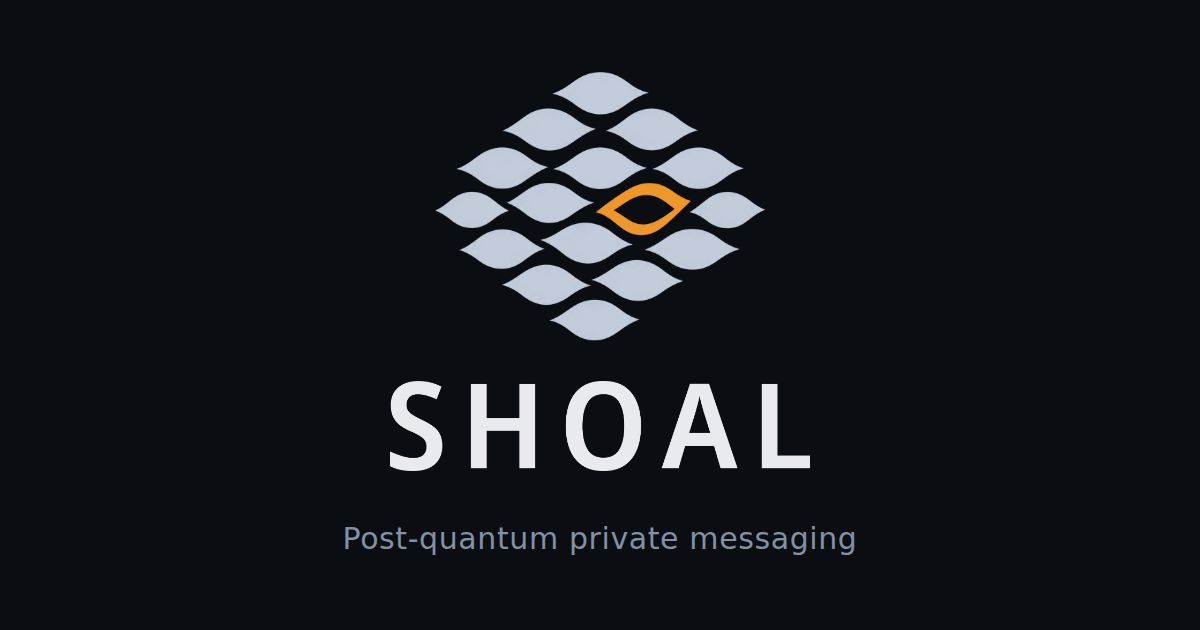
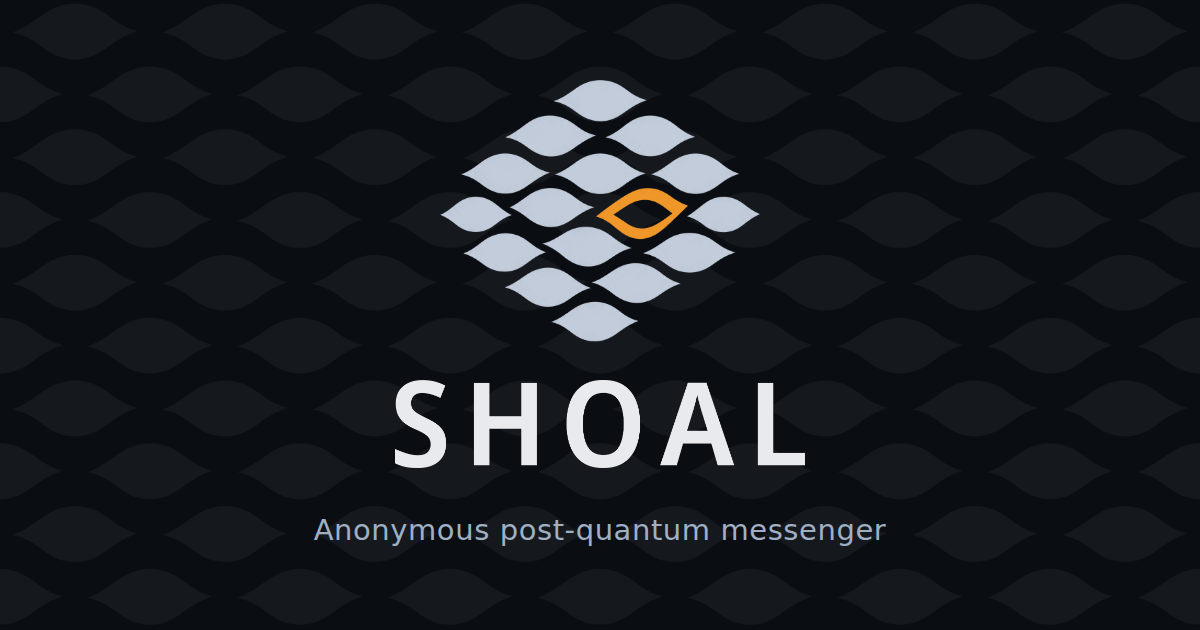
Put the site and the README on the Shoal design code
The rename reached the words but not the design: the palette still carried
Aegis's teal, and the README's banner was a rendered graphic with AEGIS set
across it. That image was the last place the old name was still visible,
and no text search could find it.

The banner is replaced by the supplied key visual, which is lighter than the
465 KB screenshot it removes was.

Palette. Teal is gone. The brand is a steel shoal with one amber fish, so
the palette follows that split: silver is "the many" -- body copy, code,
anything technical -- and amber is "the one", marking exactly one thing per
view. The hero's five rings used to alternate amber and teal, which read as
five different things; they are five hops of the same kind, so they are now
five of the same steel with amber only at the core. The palette rule and the
protocol turn out to be the same picture.

Ground. The hero stands on the mark's own lattice, continued past its
diamond. The tile is built by flood-filling ONE fish out of the mark and
repeating it on a half-drop -- a rectangular crop carries slivers of the
neighbours it interlocks with, and they show up as notches along the tips.
8 KB, seamless, and provably the same shape as the logo, instead of a 1.4 MB
photograph.

Three pillars from the key visual, in both languages, using the brand
glyphs. The parity check that keeps EN and RU the same page covers them, so
they cannot drift apart.

One thing I got wrong on the way and should record: I reported the Russian
[…]

diff --git a/docs/assets/site.css b/docs/assets/site.css
@@ -1,7 +1,11 @@
 /* Shoal site.
  *
- * Palette taken from the brand hero (docs/screenshots/hero.jpg): near-black
- * navy, amber accent, steel text, monospace for anything technical.
+ * Palette taken from the brand key visual: near-black navy ground, a steel
+ * shoal, and amber for the one fish that is not part of it.
+ *
+ * That split is the whole palette rule. Silver is "the many" -- body copy,
+ * code, anything technical -- and amber is "the one", so it marks exactly one
+ * thing per view and nothing else. An accent used twice stops being an accent.
  *
  * No web fonts, no JavaScript, no third-party anything. Partly because it is
  * the fastest a page can be -- Core Web Vitals are a ranking signal and an
@@ -18,7 +22,8 @@
   --muted: #8b98a9;
   --accent: #f0972a;
   --accent-soft: #ffb35c;
-  --teal: #4fd1c5;
+  --steel: #9fb0c4;
+  --steel-dim: #8391a4;
   --mono: ui-monospace, SFMono-Regular, "SF Mono", Menlo, Consolas,
     "Liberation Mono", monospace;
   --sans: -apple-system, BlinkMacSystemFont, "Segoe UI", Roboto, Inter,
@@ -91,10 +96,10 @@ header.site nav a, .head-actions a {
 header.site nav a:hover, .head-actions a:hover { color: var(--text); }
 .head-actions { display: flex; gap: .85rem; align-items: center; }
 .head-actions .lang {
-  color: var(--teal); font-family: var(--mono); font-size: .82rem;
+  color: var(--steel); font-family: var(--mono); font-size: .82rem;
   border: 1px solid var(--line-2); border-radius: 999px; padding: .2rem .7rem;
 }
-.head-actions .lang:hover { border-color: var(--teal); color: var(--teal); }
+.head-actions .lang:hover { border-color: var(--steel); color: var(--steel); }
 
 /* ---------- layout ---------- */
 
@@ -155,7 +160,7 @@ section:last-child { border-bottom: 0; }
 }
 .layer-body h3 { margin: 0 0 .15rem; }
 .layer-tech {
-  font-family: var(--mono); font-size: .84rem; color: var(--teal);
+  font-family: var(--mono); font-size: .84rem; color: var(--steel);
   margin: 0 0 .5rem;
 }
 .layer-body p:last-child { margin: 0; color: var(--muted); font-size: .96rem; }
@@ -178,7 +183,7 @@ thead th {
   text-transform: uppercase; color: var(--muted); font-weight: 600;
 }
 tbody th { font-weight: 500; color: var(--text); }
-tbody td:first-of-type code { color: var(--teal); }
+tbody td:first-of-type code { color: var(--steel); }
 tbody td:last-child { color: var(--muted); font-family: var(--mono); font-size: .86rem; }
 
 /* ---------- grids ---------- */
@@ -215,7 +220,7 @@ pre {
   border-radius: 10px; padding: 1rem 1.15rem; overflow-x: auto;
   margin: 1.8rem 0; font-size: .88rem; line-height: 1.6;
 }
-pre code { color: var(--teal); white-space: pre; }
+pre code { color: var(--steel); white-space: pre; }
 
 /* ---------- faq ---------- */
 
@@ -273,7 +278,46 @@ footer.site {
    Everything here is switched off wholesale under
    prefers-reduced-motion at the bottom of this block. */
 
-.hero { position: relative; }
+.hero { position: relative; isolation: isolate; }
+
+/* The three pillars of the key visual. A glyph, a heading, a sentence -- and
+ * no amber anywhere, because the hero above already spends the one accent this
+ * view is allowed. */
+.pillars { border-bottom: 1px solid var(--line); padding: 2.6rem 0; }
+.pillars ul {
+  list-style: none; margin: 0; padding: 0;
+  display: grid; gap: 1.6rem 2.2rem;
+  grid-template-columns: 1fr;
+}
+@media (min-width: 760px) { .pillars ul { grid-template-columns: repeat(3, 1fr); } }
+.pillars li { display: flex; gap: .95rem; align-items: flex-start; }
+.pillars img { flex: none; width: 52px; height: 52px; opacity: .8; }
+.pillars h3 {
+  margin: .1rem 0 .35rem; font-size: .82rem; font-family: var(--mono);
+  letter-spacing: .13em; text-transform: uppercase; color: var(--steel);
+  font-weight: 600;
+}
+.pillars p { margin: 0; font-size: .95rem; color: var(--muted); }
+
+
+/* The scale field: the mark's own lattice continued past its diamond, so the
+ * ground and the logo are provably the same shape. It is a 320x268 tile drawn
+ * from one fish of the mark -- 8 KB, and seamless, rather than a photograph.
+ * Kept faint: it is a texture, not a picture, and the hero has to stay
+ * readable on top of it. */
+.hero::before {
+  content: "";
+  position: absolute;
+  inset: -1.5rem -50vw 0;
+  background: url("scales.png") repeat;
+  background-size: 140px auto;
+  opacity: .05;
+  z-index: -1;
+  pointer-events: none;
+  -webkit-mask-image: linear-gradient(180deg, #000, transparent 88%);
+          mask-image: linear-gradient(180deg, #000, transparent 88%);
+}
+@media (prefers-contrast: more) { .hero::before { display: none; } }
 
 @media (min-width: 980px) {
   .hero {
@@ -309,15 +353,20 @@ footer.site {
   border: 1px solid var(--line-2);
   transform-style: preserve-3d;
 }
-.ring.r1 { width: 300px; height: 300px; border-color: rgba(240,151,42,.55);
+/* Five hops, drawn as five rings of the same steel, with amber only at the
+ * centre. The rings used to alternate amber and teal, which read as five
+ * different things; they are five of the same thing, and the one that is not
+ * is the message in the middle. That is the palette rule and the protocol
+ * both. */
+.ring.r1 { width: 300px; height: 300px; border-color: rgba(159,176,196,.34);
            animation: ring-1 22s linear infinite; }
-.ring.r2 { width: 244px; height: 244px; border-color: rgba(79,209,197,.45);
+.ring.r2 { width: 244px; height: 244px; border-color: rgba(159,176,196,.30);
            border-style: dashed; animation: ring-2 27s linear infinite; }
-.ring.r3 { width: 188px; height: 188px; border-color: rgba(240,151,42,.35);
+.ring.r3 { width: 188px; height: 188px; border-color: rgba(159,176,196,.26);
            animation: ring-3 19s linear infinite; }
-.ring.r4 { width: 132px; height: 132px; border-color: rgba(79,209,197,.35);
+.ring.r4 { width: 132px; height: 132px; border-color: rgba(159,176,196,.22);
            border-style: dashed; animation: ring-4 31s linear infinite; }
-.ring.r5 { width: 76px; height: 76px; border-color: rgba(240,151,42,.6);
+.ring.r5 { width: 76px; height: 76px; border-color: rgba(240,151,42,.65);
            animation: ring-5 15s linear infinite; }
 
 /* The message at the centre: the one thing all five layers are around. */

diff --git a/docs/ru/index.html b/docs/ru/index.html
@@ -74,6 +74,10 @@
  </div>
 </section>
 
+<section class="pillars">
+  <ul><li><img src="../assets/glyphs/lock.png" alt="" width="52" height="52" loading="lazy" decoding="async"><div><h3>Приватность по замыслу</h3><p>Ни номера телефона, ни почты, ни аккаунта на чьём-либо сервере. Личность — пара ключей, созданная на вашем устройстве.</p></div></li><li><img src="../assets/glyphs/broadcast.png" alt="" width="52" height="52" loading="lazy" decoding="async"><div><h3>Устойчивость по природе</h3><p>Нет центрального сервера, который можно изъять. Ноду может поднять любой, остальную сеть клиент узнаёт по gossip.</p></div></li><li><img src="../assets/glyphs/chevrons.png" alt="" width="52" height="52" loading="lazy" decoding="async"><div><h3>Готовность к завтра</h3><p>ML-KEM-768 и ML-DSA-65 уже сегодня: перехваченный сейчас трафик не станет читаемым, когда появится квантовый компьютер.</p></div></li></ul>
+</section>
+
 <section id="how">
   <h2>Пять слоёв, одно сообщение</h2>
   <p class="lead">Каждый слой убирает то, что иначе узнал бы наблюдатель. Ни один из них здесь не придуман: все конструкции — опубликованные схемы, реализованные с нуля на криптоядре без зависимостей.</p>

diff --git a/docs/index.html b/docs/index.html
@@ -74,6 +74,10 @@
  </div>
 </section>
 
+<section class="pillars">
+  <ul><li><img src="assets/glyphs/lock.png" alt="" width="52" height="52" loading="lazy" decoding="async"><div><h3>Private by design</h3><p>No phone number, no email, no account on anyone&#x27;s server. Your identity is a key pair generated on your device.</p></div></li><li><img src="assets/glyphs/broadcast.png" alt="" width="52" height="52" loading="lazy" decoding="async"><div><h3>Resilient by nature</h3><p>No central server to seize. Anyone can run a node, and clients learn the rest of the network by gossip.</p></div></li><li><img src="assets/glyphs/chevrons.png" alt="" width="52" height="52" loading="lazy" decoding="async"><div><h3>Ready for tomorrow</h3><p>ML-KEM-768 and ML-DSA-65 today, so traffic captured now does not become readable once a quantum computer exists.</p></div></li></ul>
+</section>
+
 <section id="how">
   <h2>Five layers, one message</h2>
   <p class="lead">Each layer removes a different thing an observer could learn. None of them is invented here — every construction is a published design, implemented from scratch on a dependency-free cryptographic core.</p>

diff --git a/docs/build.py b/docs/build.py
@@ -41,7 +41,7 @@ def _png_size(path):
 OG_W, OG_H = _png_size(HERE / "brand" / "og.png")
 
 # Every claim below is checked against the repository, not written from
-# impression: the five layers are the ones in docs/screenshots/hero.jpg, the
+# impression: the five layers are the ones in the key visual, the
 # primitives are those in crates/shoal-crypto, and nothing is described as
 # implemented that README.md's roadmap does not mark implemented.
 
@@ -158,6 +158,17 @@ LANGS = {
             "shape of construction Signal deployed for the same reason."
         ),
         "features_h2": "What you get",
+        "pillars": [
+            ("lock", "Private by design",
+             "No phone number, no email, no account on anyone's server. Your "
+             "identity is a key pair generated on your device."),
+            ("broadcast", "Resilient by nature",
+             "No central server to seize. Anyone can run a node, and clients "
+             "learn the rest of the network by gossip."),
+            ("chevrons", "Ready for tomorrow",
+             "ML-KEM-768 and ML-DSA-65 today, so traffic captured now does "
+             "not become readable once a quantum computer exists."),
+        ],
         "features": [
             ("No phone number, no account",
              "Your identity is a key pair generated on your device. Nothing to "
@@ -390,6 +401,17 @@ LANGS = {
             "той же формы и по той же причине."
         ),
         "features_h2": "Что внутри",
+        "pillars": [
+            ("lock", "Приватность по замыслу",
+             "Ни номера телефона, ни почты, ни аккаунта на чьём-либо сервере. "
+             "Личность — пара ключей, созданная на вашем устройстве."),
+            ("broadcast", "Устойчивость по природе",
+             "Нет центрального сервера, который можно изъять. Ноду может "
+             "поднять любой, остальную сеть клиент узнаёт по gossip."),
+            ("chevrons", "Готовность к завтра",
+             "ML-KEM-768 и ML-DSA-65 уже сегодня: перехваченный сейчас трафик "
+             "не станет читаемым, когда появится квантовый компьютер."),
+        ],
         "features": [
             ("Без номера и без аккаунта",
              "Личность — это пара ключей, созданная на вашем устройстве. "
@@ -585,6 +607,16 @@ def page(lang, d):
         f"<li><h3>{e(t)}</h3><p>{e(b)}</p></li>" for t, b in d["features"]
     )
 
+    # The three pillars of the key visual. The glyphs are decorative -- the
+    # heading beside each one already says what it means -- so they carry an
+    # empty alt rather than a description a screen reader would read twice.
+    pillars = "".join(
+        f'<li><img src="{root}assets/glyphs/{g}.png" alt="" width="52" '
+        f'height="52" loading="lazy" decoding="async">'
+        f"<div><h3>{e(t)}</h3><p>{e(b)}</p></div></li>"
+        for g, t, b in d["pillars"]
+    )
+
     shots = "".join(
         f'<figure><img src="{root}screenshots/{f}" alt="{e(alt)}" '
         f'width="1968" height="2184" loading="lazy" decoding="async"></figure>'
@@ -678,6 +710,10 @@ def page(lang, d):
     <span class="ring r5"></span><span class="core"></span>
   </div>
  </div>
+</section>
+
+<section class="pillars">
+  <ul>{pillars}</ul>
 </section>
 
 <section id="how">
@@ -798,8 +834,8 @@ def main():
 
     # Both languages must offer the same page, or hreflang is a lie.
     en, ru = LANGS["en"], LANGS["ru"]
-    for field in ("nav", "layers", "crypto_rows", "features", "shots",
-                  "limits", "faq"):
+    for field in ("nav", "layers", "pillars", "crypto_rows", "features",
+                  "shots", "limits", "faq"):
         if len(en[field]) != len(ru[field]):
             sys.exit(f"EN and RU differ in '{field}': "
                      f"{len(en[field])} vs {len(ru[field])}")

diff --git a/README.md b/README.md
@@ -16,7 +16,7 @@
 
 </div>
 
-![Shoal — can't intercept, can't read, can't link; the five layers](docs/screenshots/hero.jpg)
+![Shoal — your message among many: anonymous, post-quantum, private by design](docs/brand/keyvisual.png)
 
 Shoal is a Session-class messenger — no phone numbers, no central account — that
 borrows Monero / CryptoNote *stealth addressing* for recipient unlinkability and
